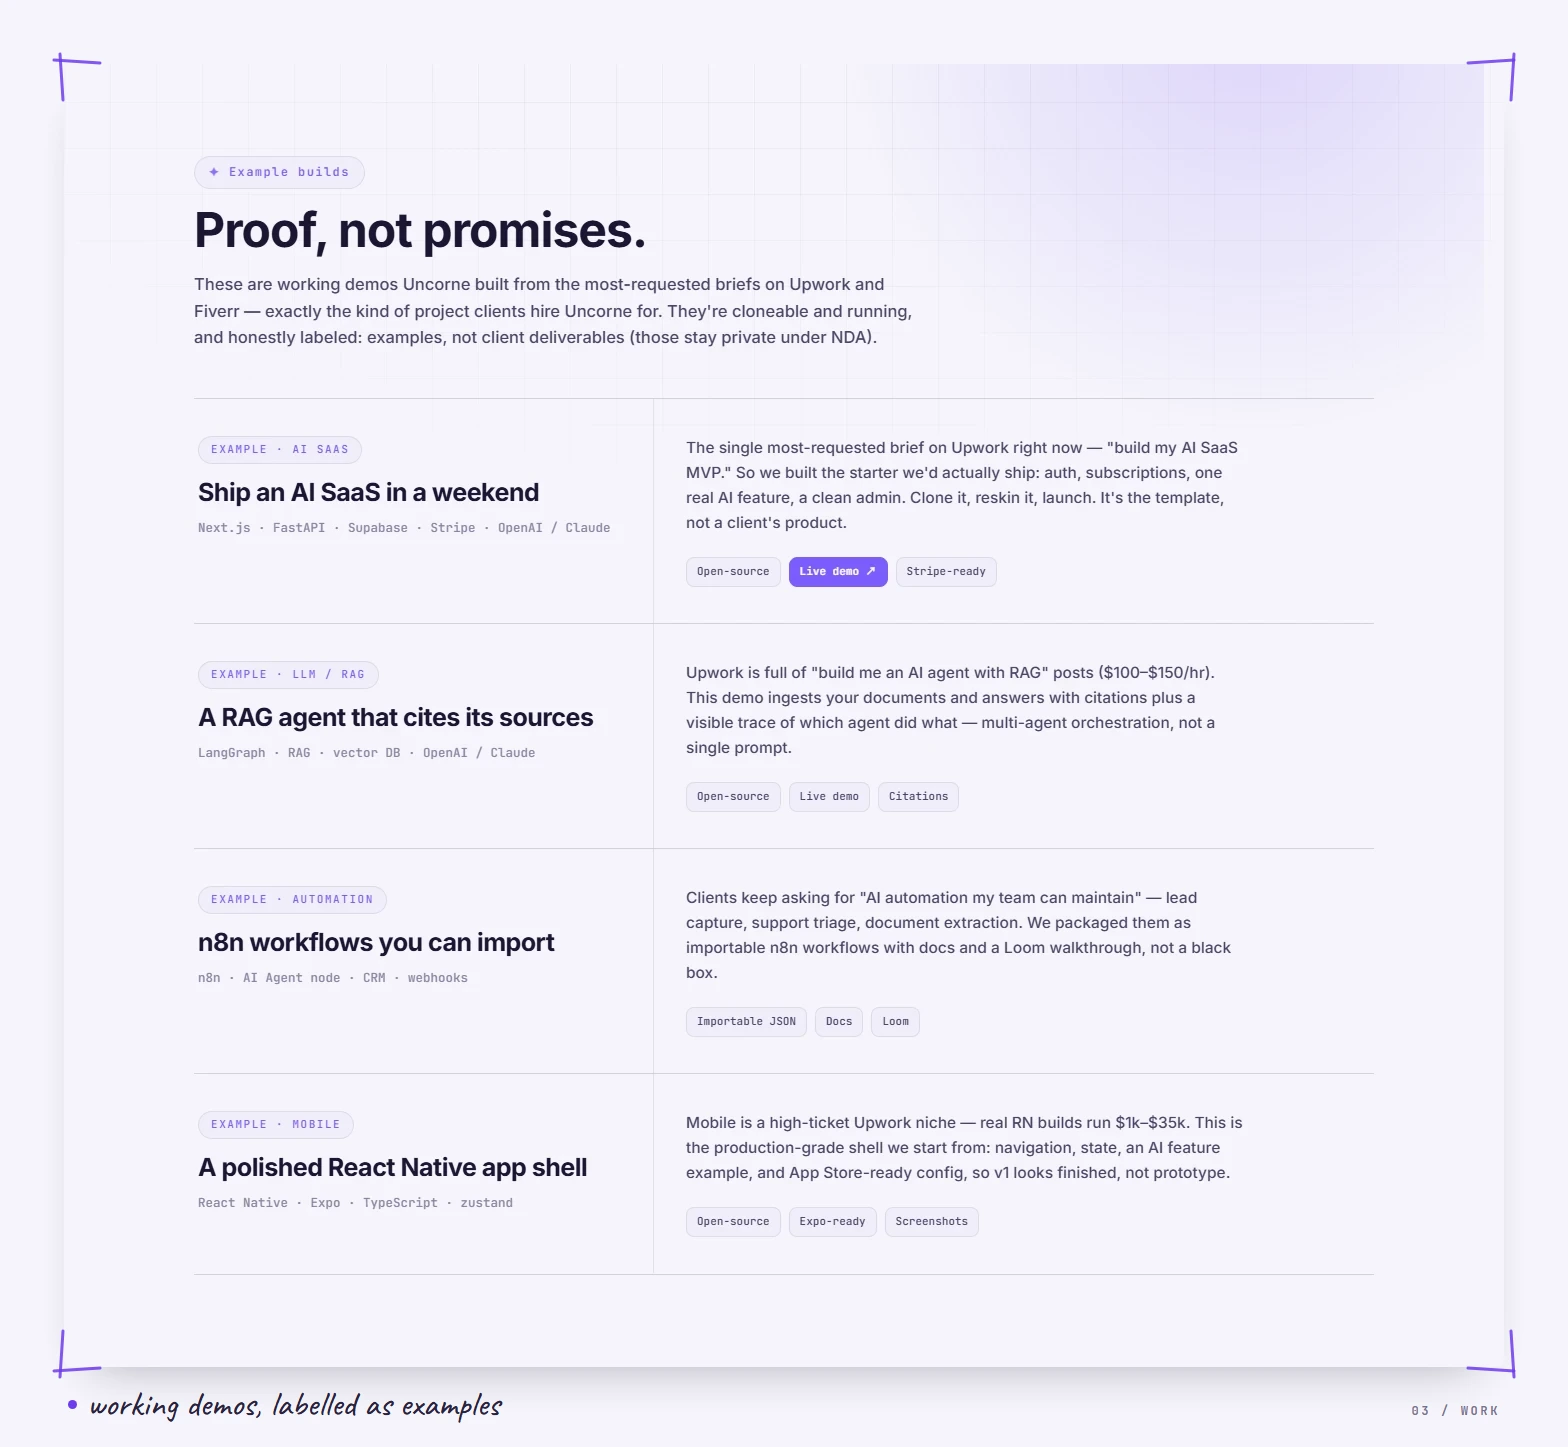
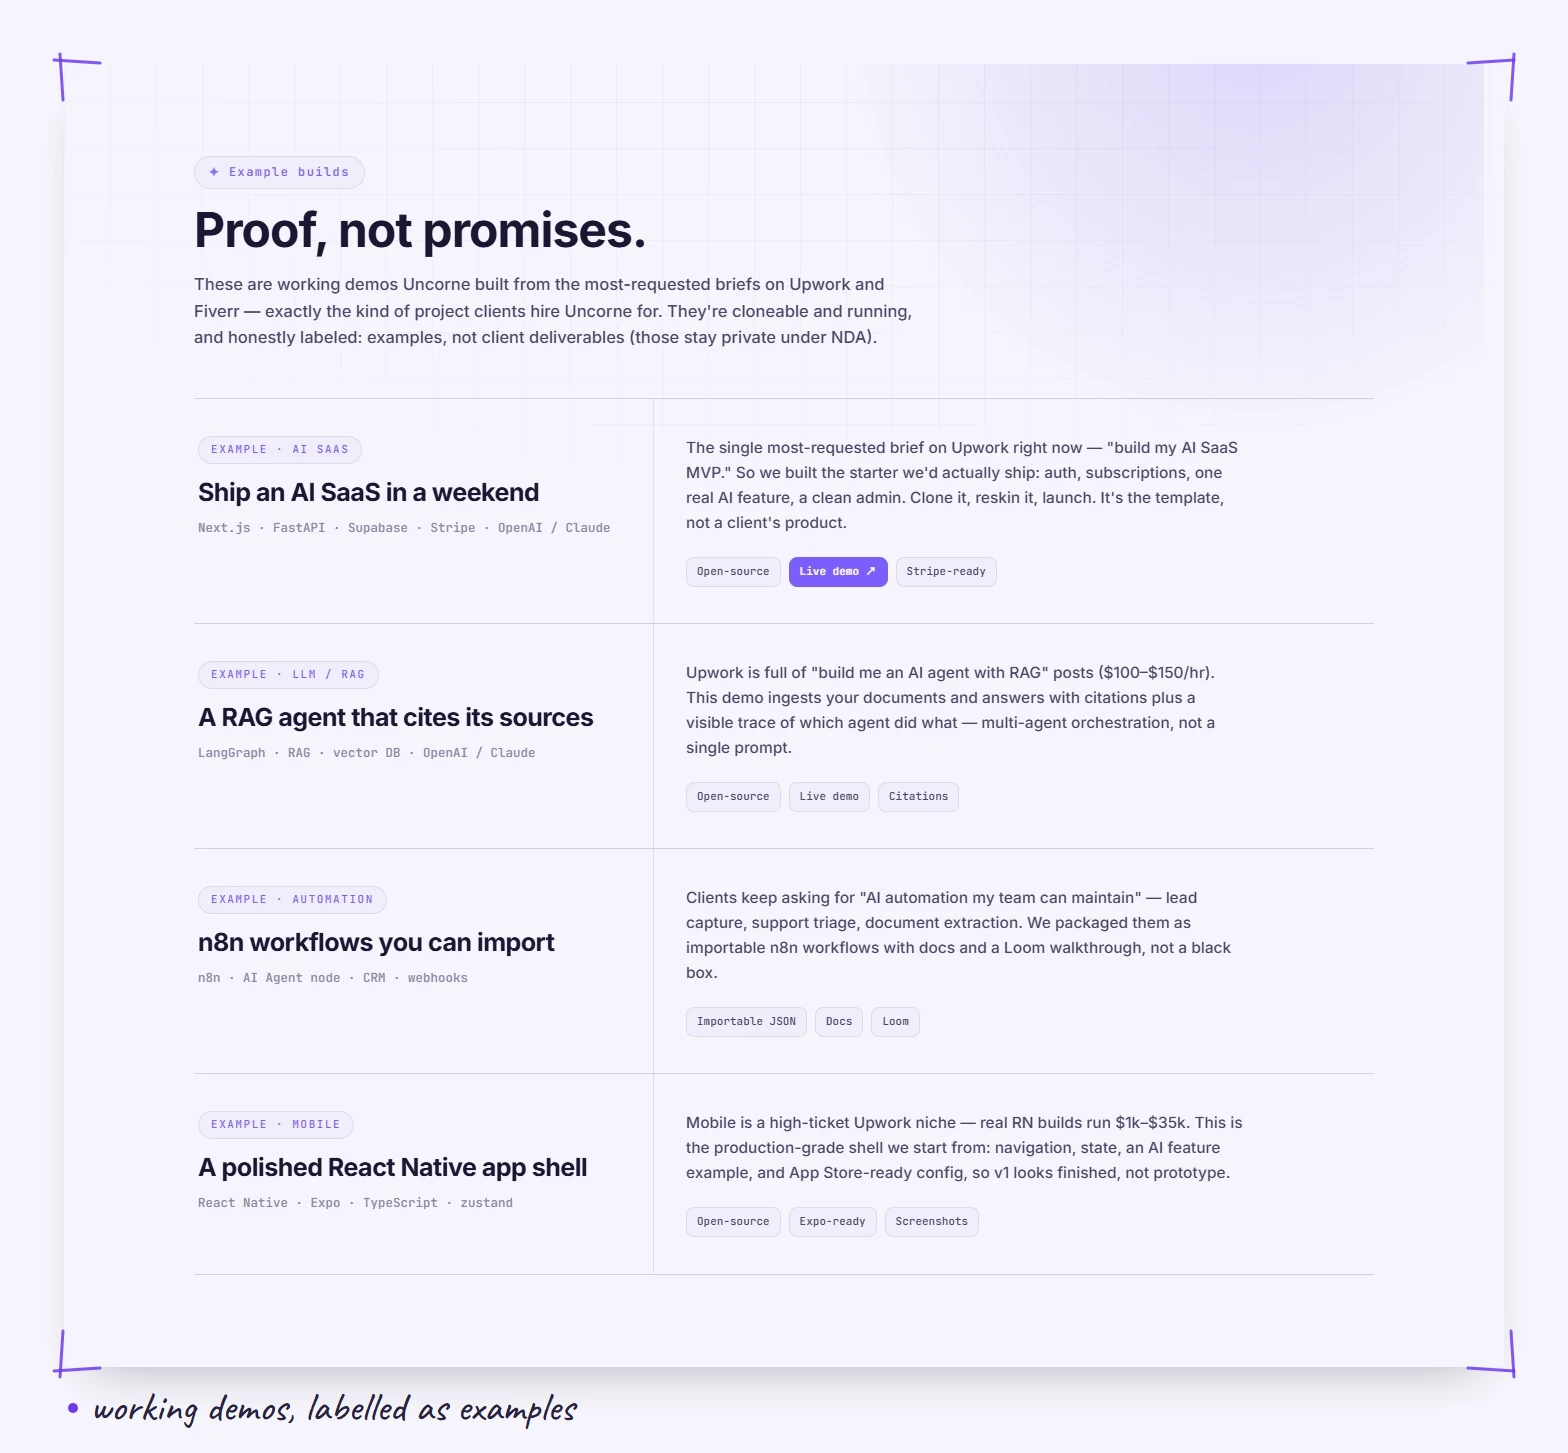
Refine hand-drawn pass: bigger captions, short squiggle mark

diff --git a/README.md b/README.md
@@ -4,7 +4,7 @@ Software architect and founder. I run **Uncorne**, a small senior-led studio tha
 
 > Not a copilot — the studio that owns the architecture decision.
 
-<img src="assets/doodles/divider.svg" width="100%" alt="">
+<p align="center"><img src="assets/doodles/squiggle.svg" width="200" alt=""></p>
 
 ## Uncorne — SaaS & AI studio
 
@@ -45,7 +45,7 @@ The work section holds working demos built from the briefs clients actually brin
 
 <p align="right"><img src="assets/doodles/signature.png" width="190" alt="Wang Nan"></p>
 
-<img src="assets/doodles/divider.svg" width="100%" alt="">
+<p align="center"><img src="assets/doodles/squiggle.svg" width="200" alt=""></p>
 
 ## make1day.dev
 
